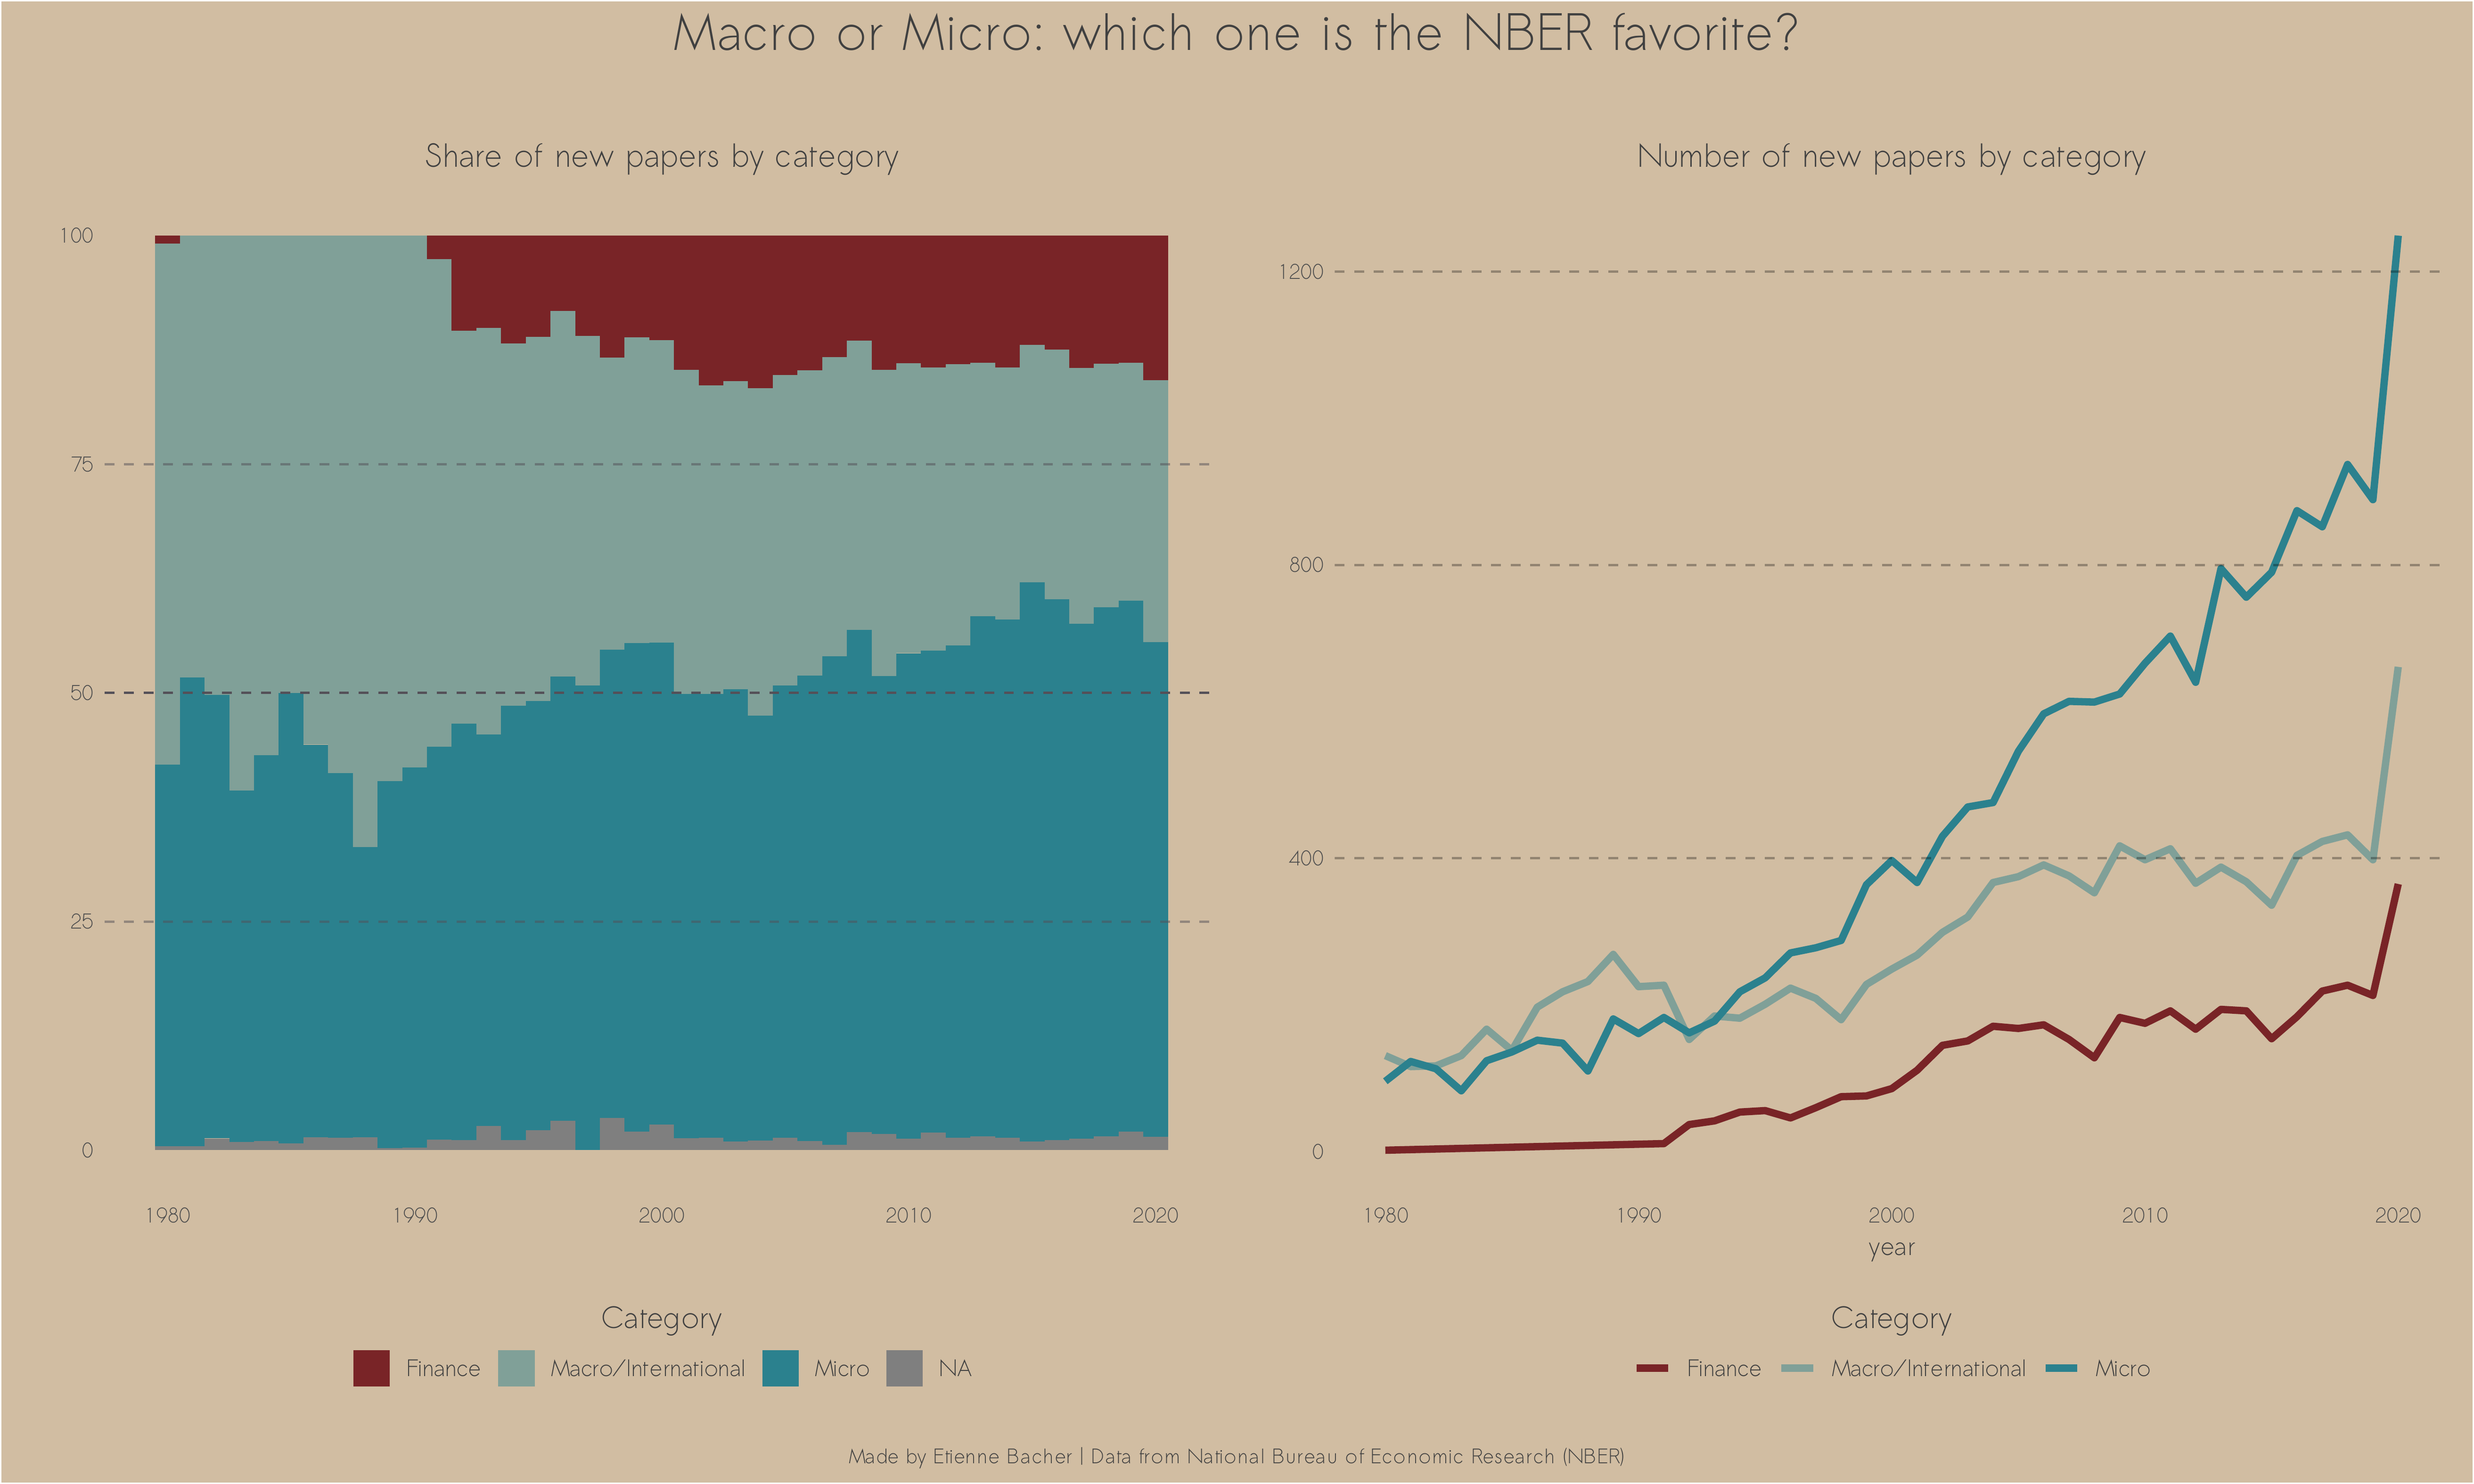
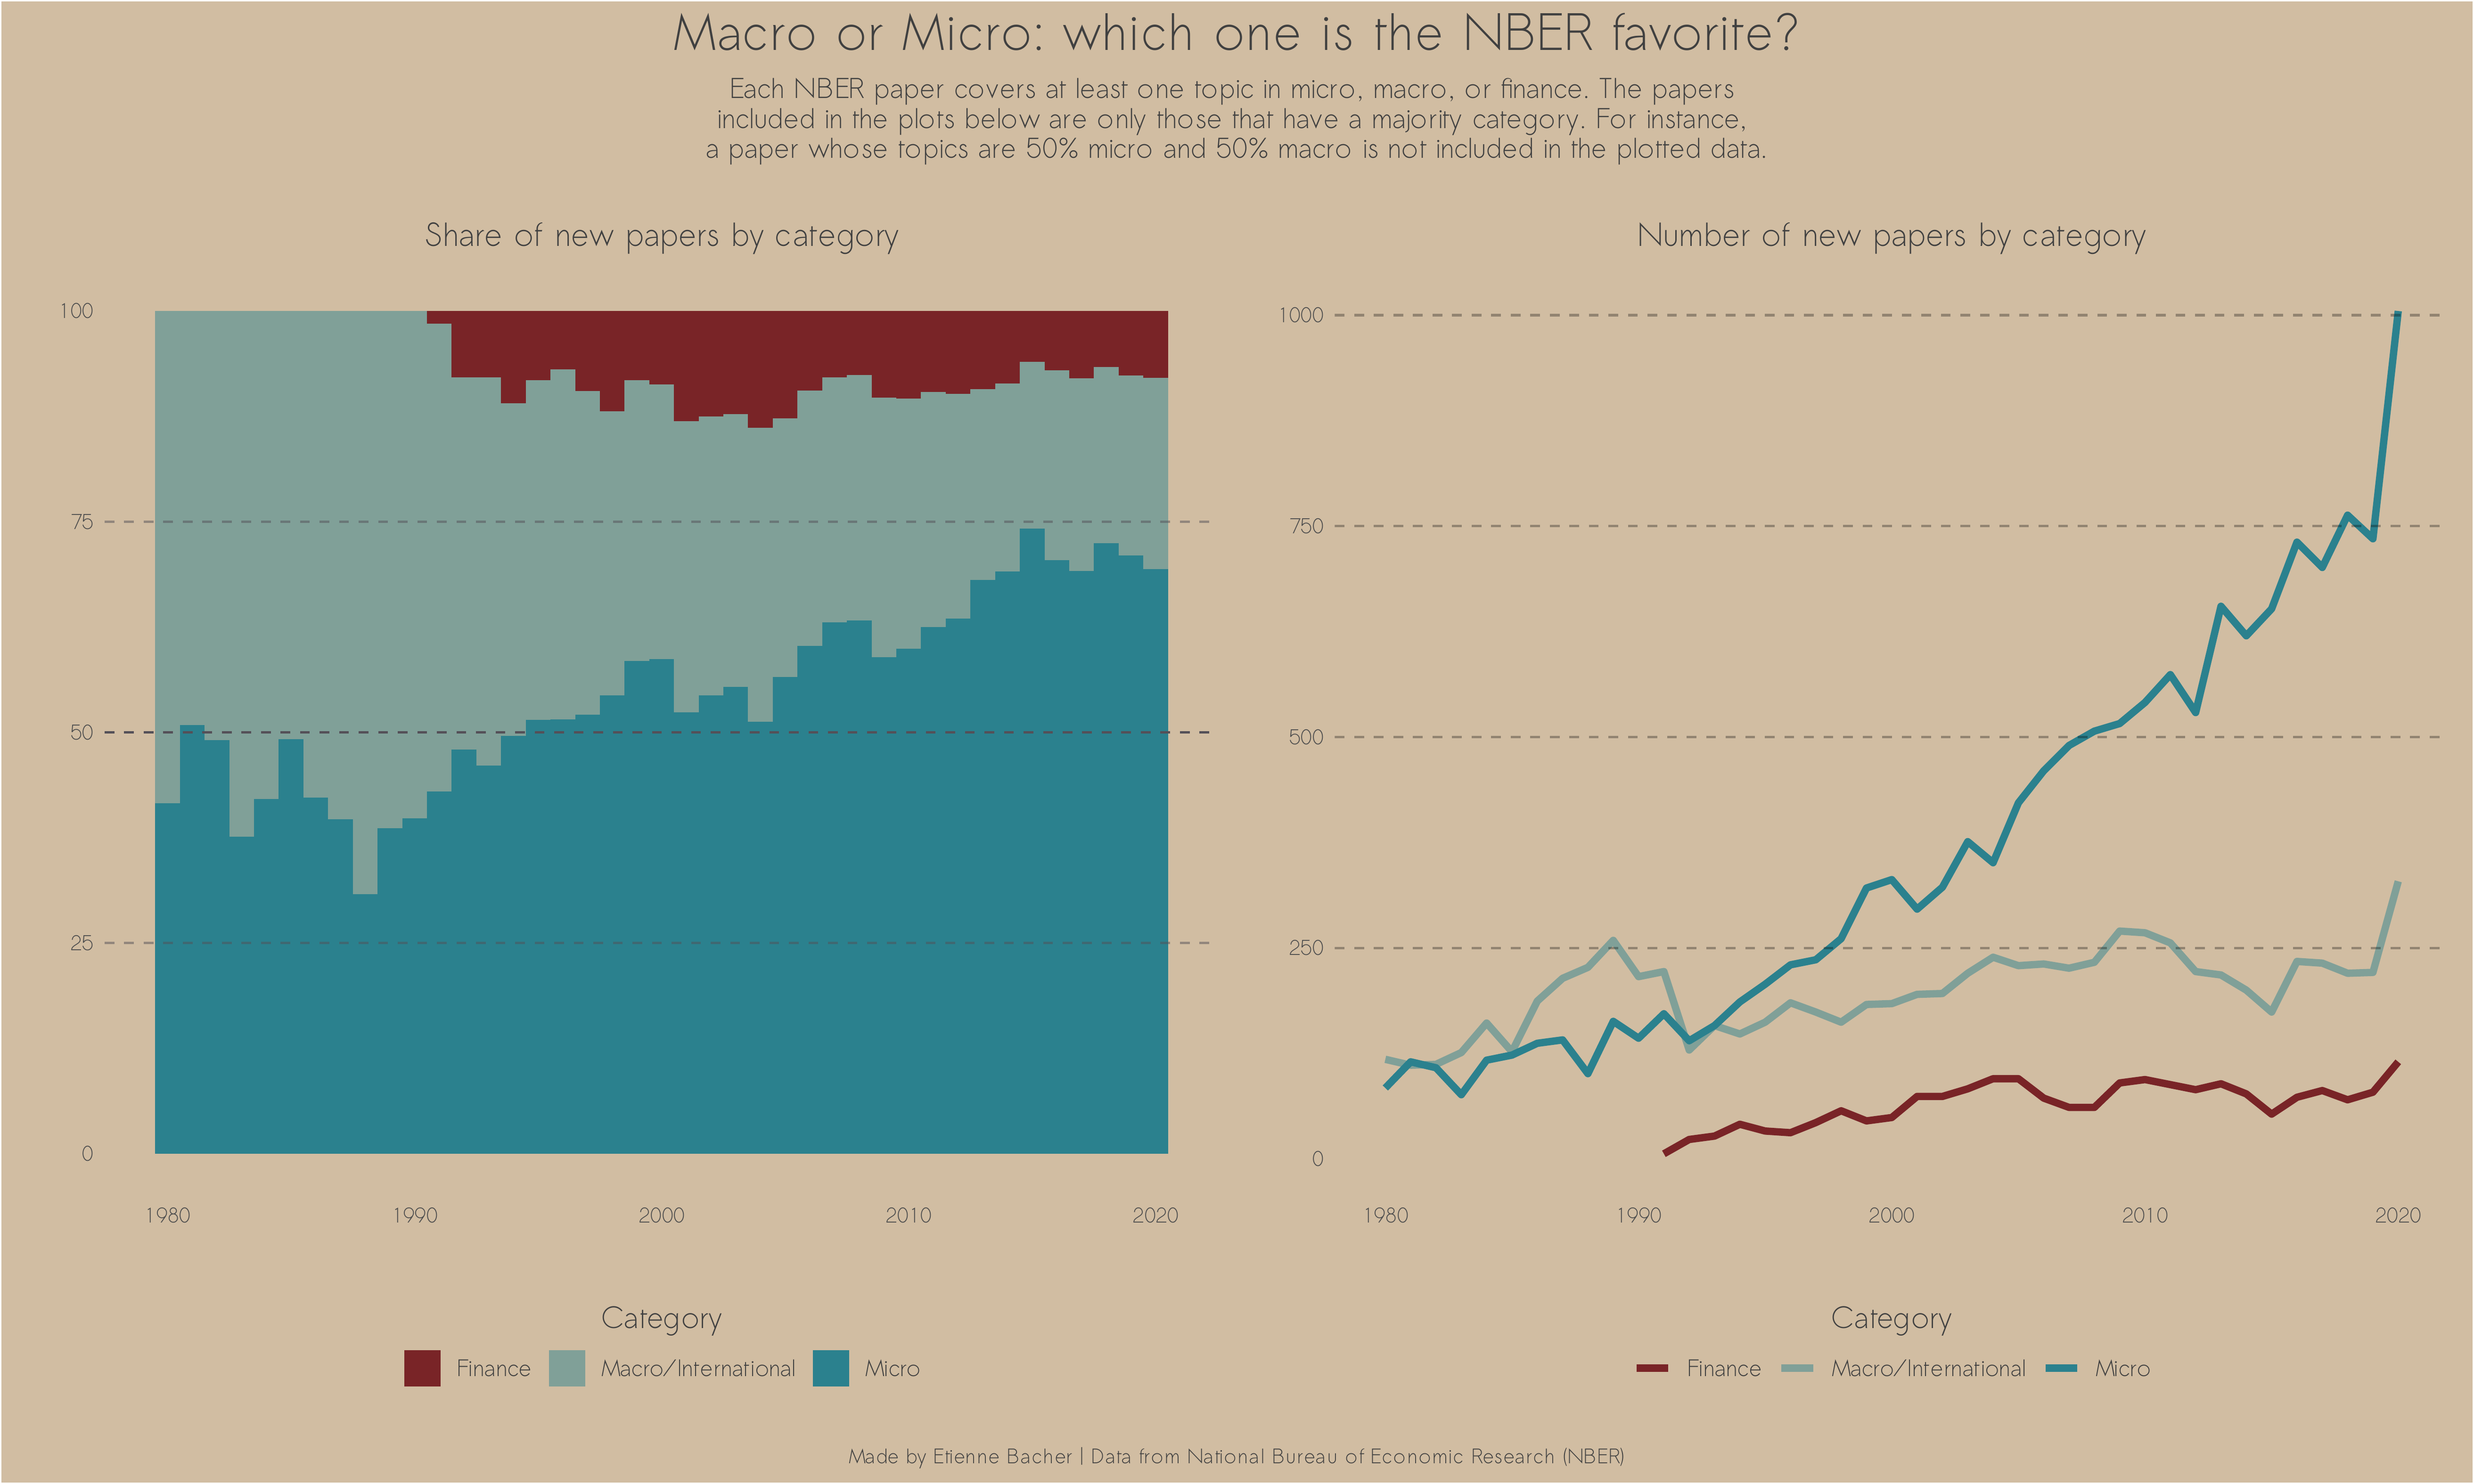
fix week 40

diff --git a/README.md b/README.md
@@ -1,6 +1,10 @@
 # My plots for TidyTuesday
 
 
+## 2021, Week 40, NBER papers | [Code](R/2021/W40-nber-papers/W40-nber-papers.R)
+
+![](R/2021/W40-nber-papers/nber-papers.png) 
+
 ## 2021, Week 28, independence day | [Code](R/2021/W28-independence-day/W28-independence-day.R)
 
 ![](R/2021/W28-independence-day/independence-day.png) 
